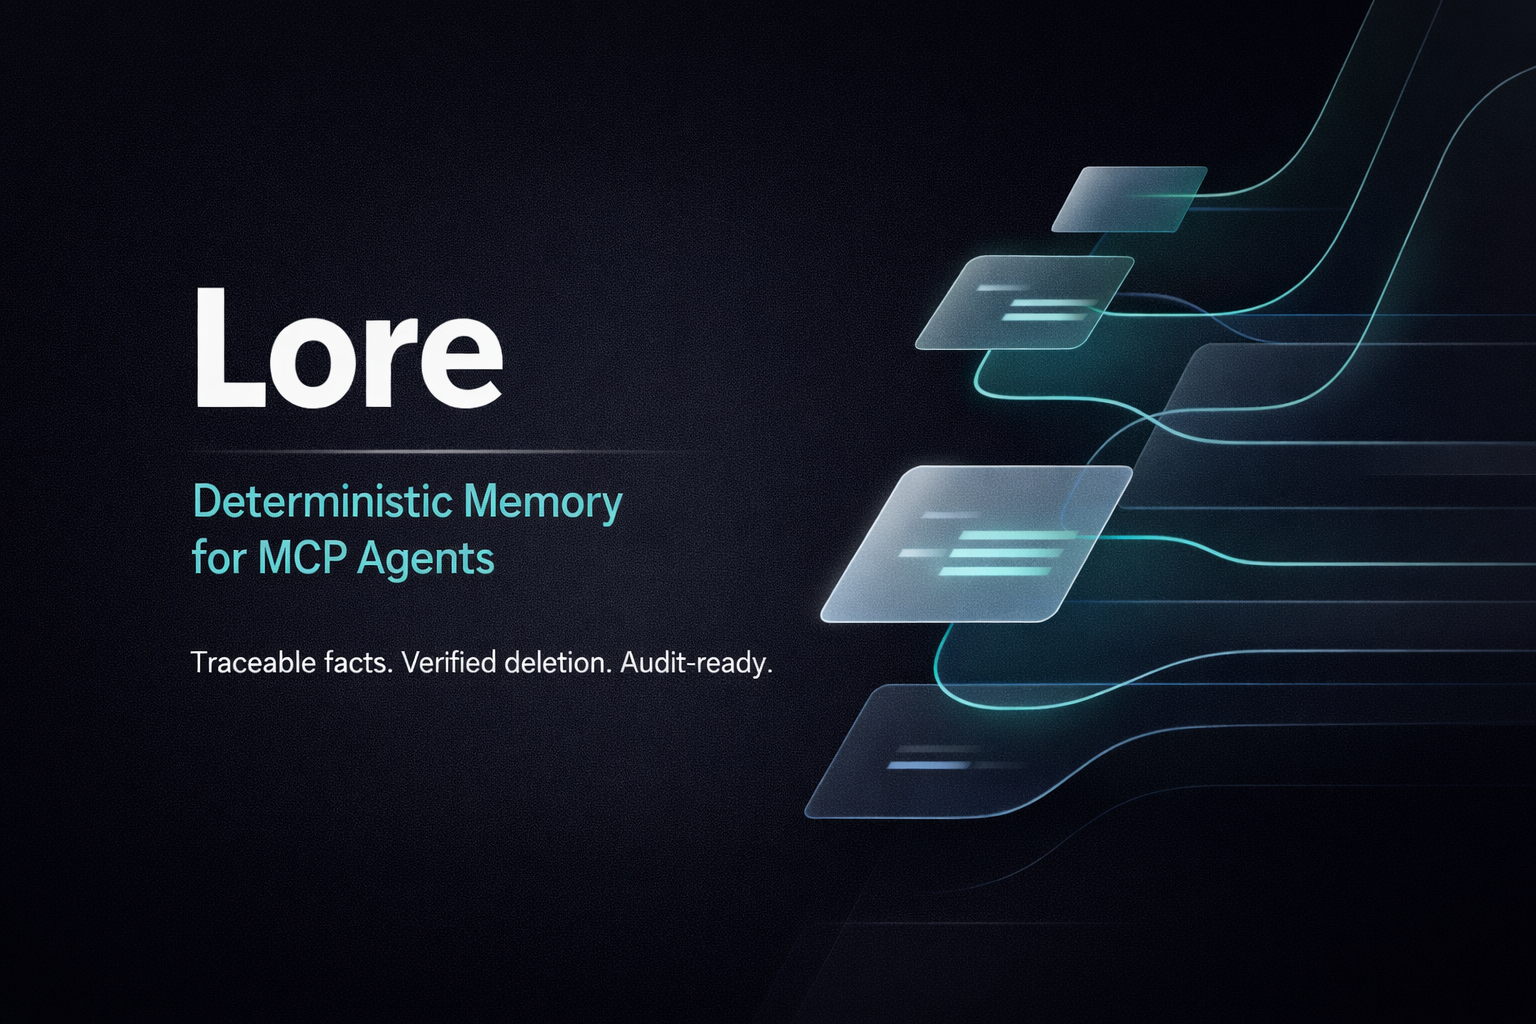
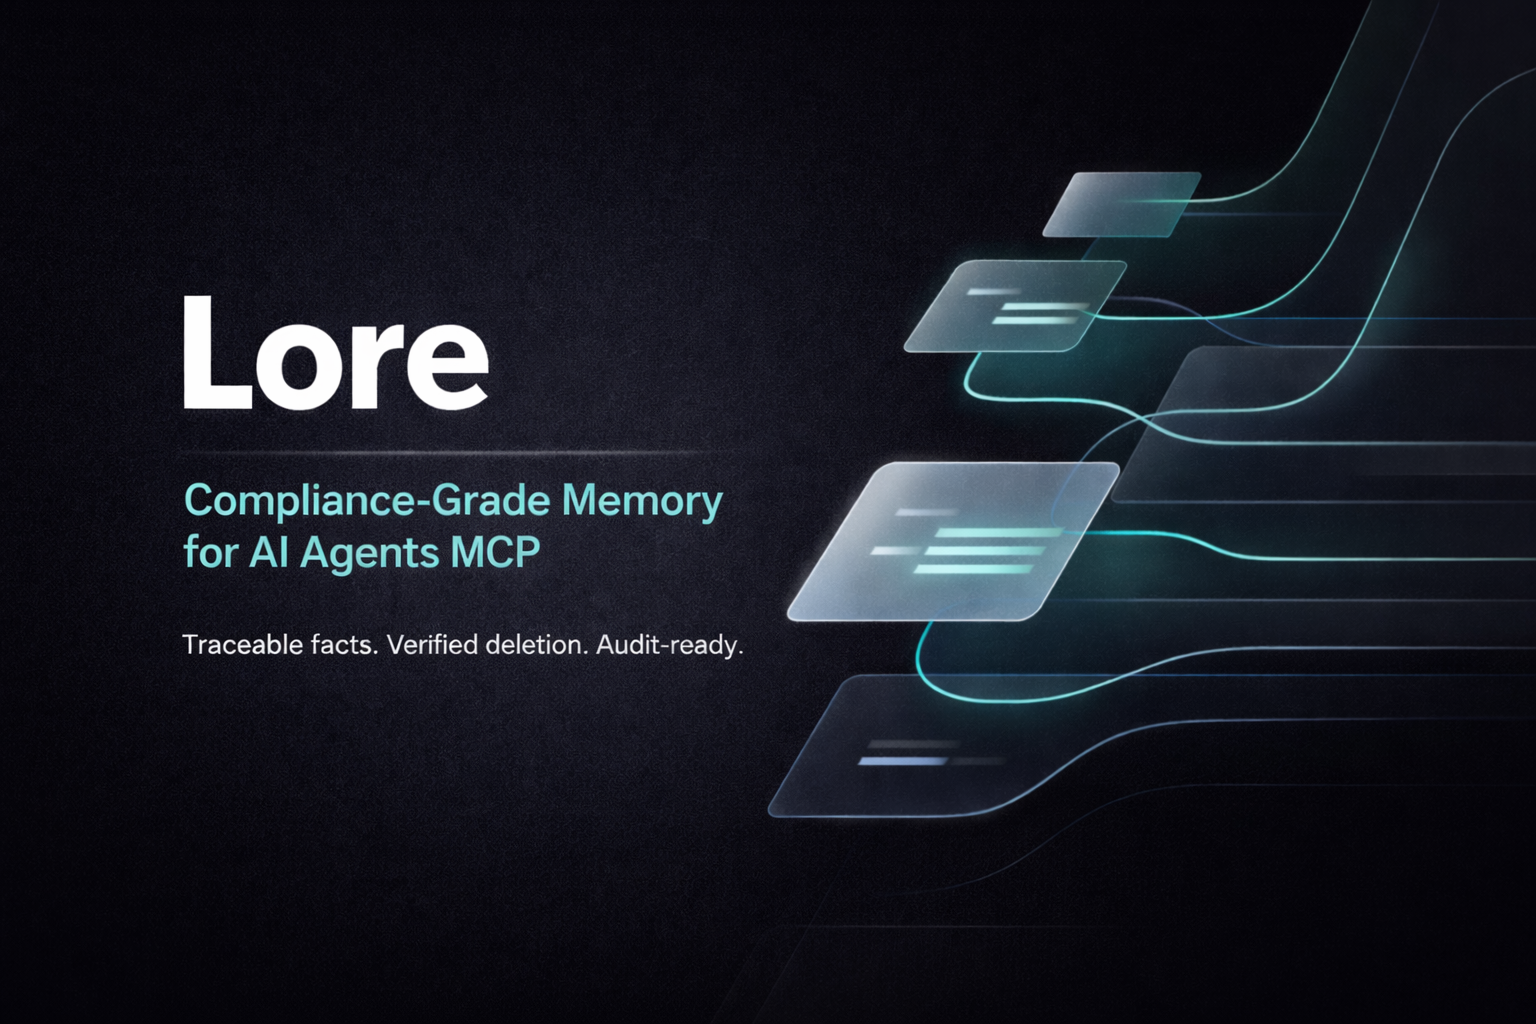
docs: refresh social preview and clarify MCP positioning

diff --git a/README.md b/README.md
@@ -2,7 +2,7 @@
 
 ![Lore social preview](docs/assets/lore_social_preview.png)
 
-Compliance-grade MCP memory with deterministic deletion and auditable lineage.
+Compliance-grade memory MCP server for AI agents, with deterministic deletion and auditable lineage.
 
 Lore gives agents durable memory without losing control: every derived fact is traceable to source events, and deletion triggers recomputation with verification.
 
